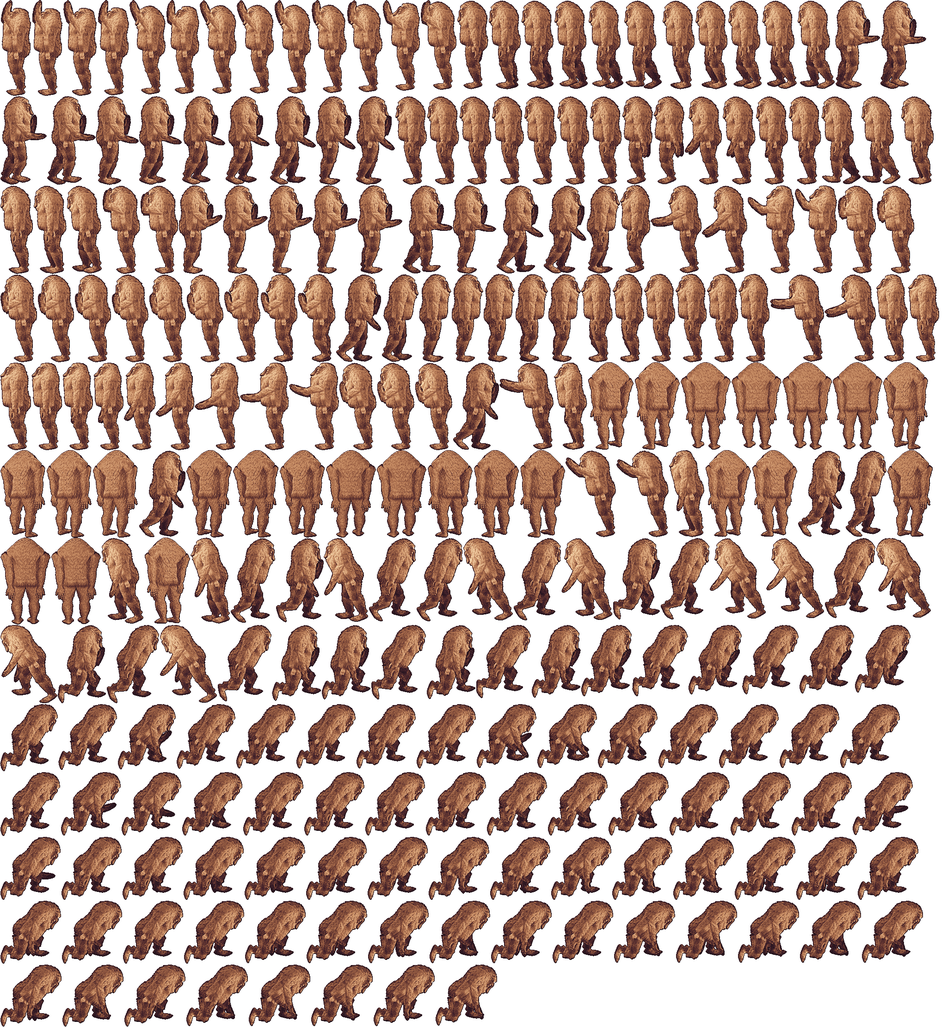
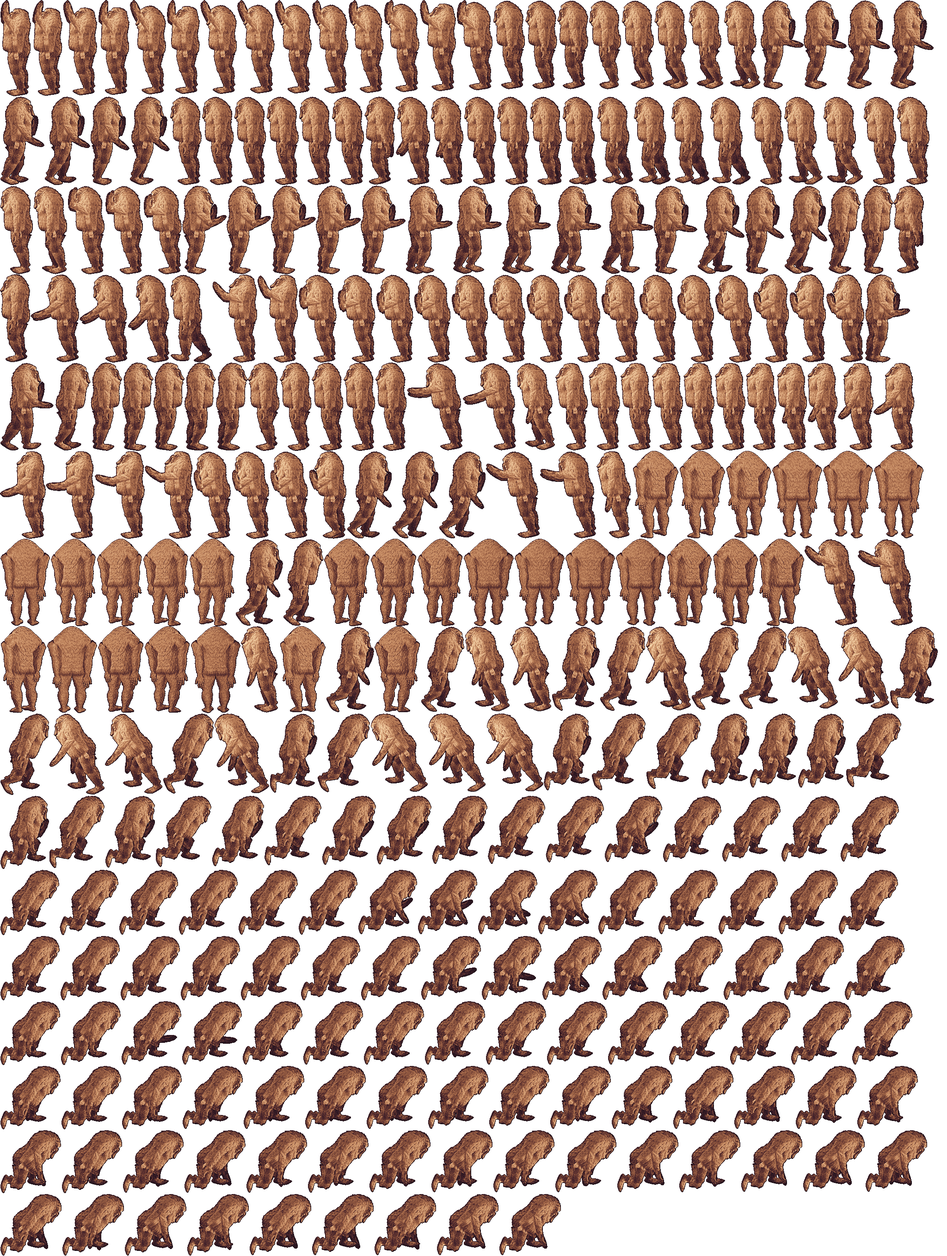
Title animation: two-thirds speed, separate far leg, longer one-knee kneel
Also keeps the 3D model reference views under play/concepts/model-ref.

Claude-Session: https://claude.ai/code/session_01JpLHzsYAvEKzmccr94t7N9

diff --git a/android/app/src/main/java/app/foxbox/ui/ProjectScreen.kt b/android/app/src/main/java/app/foxbox/ui/ProjectScreen.kt
@@ -53,6 +53,8 @@ class ProjectScreen(c: Context, private val onOpen: (Project) -> Unit, private v
     private val tPlace = story.getDouble("place").toFloat()
     private val scoops = story.getJSONArray("scoops").let { a -> FloatArray(a.length()) { a.getDouble(it).toFloat() } }
     private val duration = story.getDouble("duration").toFloat()
+    /** How much slower than the original timing the story plays (the dirt flies at the same pace). */
+    private val slow = story.optDouble("slow", 1.0).toFloat()
     private val pixel = Paint().apply { isFilterBitmap = false; isAntiAlias = false }
     private val dot = Paint()
     private val src = android.graphics.Rect(); private val dst = android.graphics.RectF()
@@ -99,7 +101,7 @@ class ProjectScreen(c: Context, private val onOpen: (Project) -> Unit, private v
         c.drawBitmap(sheet, src, dst, pixel)
         // earth scratched out of the hole flies back behind him
         for ((di, d0) in digs.withIndex()) {
-            val age = t - d0
+            val age = (t - d0) / slow
             if (age < 0f || age > 0.55f) continue
             for (j in 0 until 5) {
                 val r1 = hash(di * 91 + j); val r2 = hash(di * 37 + j * 5)
@@ -110,7 +112,7 @@ class ProjectScreen(c: Context, private val onOpen: (Project) -> Unit, private v
         }
         // earth he pulls over it, flying in little arcs
         for ((si, s0) in scoops.withIndex()) {
-            val age = t - (s0 - 0.35f)
+            val age = (t - s0) / slow + 0.35f
             if (age < 0f || age > 0.6f) continue
             for (j in 0 until 6) {
                 val r1 = hash(si * 31 + j); val r2 = hash(si * 57 + j * 7)

diff --git a/android/play/concepts/pixel/story3.py b/android/play/concepts/pixel/story3.py
@@ -15,7 +15,8 @@ import numpy as np
 import rig3, rig4, pxfast
 
 OUT = sys.argv[1]
-FPS = 15
+FPS = 12
+SLOW = 1.5   # the whole story at two-thirds speed: unhurried
 FEET = 228
 # ---------------- background (the clearing; no moon) and foreground grass
 src = open('yeti_dig.py').read()
@@ -31,8 +32,9 @@ REST = dict(torso=0, head=0, nsh=-8, nel=0, fsh=-4, fel=0, nth=0, nsn=0, fth=0, 
 keys = {c: [] for c in CH}
 views = []        # (time, view, face)
 def K(t, **kw):
+    t = t * SLOW
     for c, v in kw.items(): keys[c].append((t, v))
-def V(t, view, face): views.append((t, view, face))
+def V(t, view, face): views.append((t * SLOW, view, face))
 HOLD = dict(nsh=-70, nel=-118, fsh=-64, fel=-110)
 STAND_LEGS = dict(nth=0, nsn=0, fth=0, fsn=0)
 
@@ -108,15 +110,17 @@ K(13.8, nsh=-30, nel=-26, fsh=-24, fel=-20); K(13.95, nsh=-22, nel=-4, fsh=-18, 
 K(14.15, nsh=-30, nel=-26); K(14.3, nsh=-22, nel=-4)
 # a moment, looking at it
 K(14.9, head=18, torso=40, nsh=-16, nel=0, fsh=-10, fel=0, **KN)
+# stays down on the one knee a while longer, looking at the little mound
+K(15.4, head=22, torso=36); K(15.9, head=18, torso=38, **KN)
 # get up: lean over the front foot, push, the back knee comes up, stand
-K(15.3, torso=34, head=10, nsh=-12, fsh=-8)
-K(15.75, fth=-40, fsn=44, nth=4, nsn=46, torso=22, head=4)
-K(16.2, **STAND_LEGS, torso=2, head=0, nsh=-8, fsh=-4)
-turn(16.3, 'R', 'L')
+K(16.3, torso=34, head=10, nsh=-12, fsh=-8)
+K(16.75, fth=-40, fsn=44, nth=4, nsn=46, torso=22, head=4)
+K(17.2, **STAND_LEGS, torso=2, head=0, nsh=-8, fsh=-4)
+turn(17.3, 'R', 'L')
 # idle while a new firefly drifts down; he looks up at it
-K(17.6, look=1, breath=1)
-K(18.6, hipx=390)
-DUR = 20.0
+K(18.6, look=1, breath=1)
+K(19.6, hipx=390)
+DUR = 21.0 * SLOW
 K(DUR, **REST)
 
 def ease(u): return u * u * (3 - 2 * u)
@@ -136,16 +140,17 @@ def view_at(t):
     return v[1], v[2]
 
 # ---------------- the firefly: free (with jitter), dodging, caught, carried, laid in the hole
-FK = [(0.0, 352, 78), (1.0, 348, 84), (1.36, 344, 70), (1.62, 300, 150), (2.4, 296, 142), (3.0, 292, 150), (3.42, 300, 150), (3.62, 340, 36), (4.2, 352, 28), (5.15, 348, 34)]
+FK0 = [(0.0, 352, 78), (1.0, 348, 84), (1.36, 344, 70), (1.62, 300, 150), (2.4, 296, 142), (3.0, 292, 150), (3.42, 300, 150), (3.62, 340, 36), (4.2, 352, 28), (5.15, 348, 34)]
+FK = [(t * SLOW, x, y) for t, x, y in FK0]
 def free_fly(t):
     for (t0, x0, y0), (t1, x1, y1) in zip(FK, FK[1:]):
         if t0 <= t <= t1:
             u = ease((t - t0) / (t1 - t0)); x, y = x0 + (x1 - x0) * u, y0 + (y1 - y0) * u
-            return x + 3.0 * math.sin(t * 5.3) + 1.5 * math.sin(t * 11.0), y + 2.2 * math.sin(t * 6.7 + 1)
-    return FK[-1][1] + 3 * math.sin(t * 5.3), FK[-1][2] + 2 * math.sin(t * 6.7)
-T_CLAP, T_PLACE, T_COVER0, T_COVERED = 5.3, 11.35, 11.8, 13.6
-SCOOPS = [11.8 + i * 0.6 + 0.45 for i in range(3)]
-DIGS = [10.3 + i * 0.34 + 0.17 for i in range(2)]
+            return x + 3.0 * math.sin(t * 4.4) + 1.5 * math.sin(t * 9.0), y + 2.2 * math.sin(t * 5.6 + 1)
+    return FK[-1][1] + 3 * math.sin(t * 4.4), FK[-1][2] + 2 * math.sin(t * 5.6)
+T_CLAP, T_PLACE, T_COVER0, T_COVERED = (x * SLOW for x in (5.3, 11.35, 11.8, 13.6))
+SCOOPS = [(11.8 + i * 0.6 + 0.45) * SLOW for i in range(3)]
+DIGS = [(10.3 + i * 0.34 + 0.17) * SLOW for i in range(2)]
 
 # ---------------- simulate and render
 side = rig4.Side(); b = rig4.back(); b34 = rig4.back34()
@@ -159,7 +164,7 @@ for n in range(N):
     v = {c: chan(c, t) for c in CH}
     view, face = view_at(t)
     # breathing while idle
-    v['torso'] += v['breath'] * 1.3 * math.sin(2 * math.pi * t / 3.2)
+    v['torso'] += v['breath'] * 1.3 * math.sin(2 * math.pi * t / 4.5)
     fx, fy = free_fly(t)
     key_pose = None
     if view == 'S':
@@ -210,14 +215,14 @@ HOLE = ((hp[0][0] + hp[1][0]) / 2, FEET - 1)
 fly = []
 for n in range(N):
     t = n / FPS
-    if t < T_CLAP - 0.12:
+    if t < T_CLAP - 0.18:
         x, y = free_fly(t); a = 1.0; state = 0
     elif t < T_PLACE:
         h = hands[n]
         if h: x, y = (h[0][0] + h[1][0]) / 2, (h[0][1] + h[1][1]) / 2; state = 1
         else: x, y = fly[-1][0], fly[-1][1]; state = 2     # hidden in his hands while he turns
         if t < T_CLAP:
-            u = (t - (T_CLAP - 0.12)) / 0.12; fx_, fy_ = free_fly(t); x, y = fx_ + (x - fx_) * u, fy_ + (y - fy_) * u
+            u = (t - (T_CLAP - 0.18)) / 0.18; fx_, fy_ = free_fly(t); x, y = fx_ + (x - fx_) * u, fy_ + (y - fy_) * u
         a = 1.0
     else:
         x, y = HOLE; state = 3
@@ -225,7 +230,7 @@ for n in range(N):
         if t > T_COVERED: a = 0.2 * max(0.0, 1 - (t - T_COVERED) / 3.0)
     fly.append([round(x, 1), round(y, 1), round(a, 2), state])
 # a new one drifts down from the sky toward where the next chase starts
-T_NEW = 17.6
+T_NEW = 18.6 * SLOW
 for n in range(int(T_NEW * FPS), N):
     u = ease((n / FPS - T_NEW) / (DUR - T_NEW)); x0, y0 = 300, 6; x1, y1 = free_fly(0.0)
     fly[n] = [round(x0 + (x1 - x0) * u, 1), round(y0 + (y1 - y0) * u, 1), round(min(1, u * 3), 2), 4]
@@ -243,7 +248,7 @@ for i, (s, sx0, sy0) in enumerate(sprites):
     px_, py_ = place[i]; sheet.paste(s, (px_, py_)); meta.append([px_, py_, s.width, s.height, sx0, sy0])
 sheet.save(os.path.join(OUT, 'yeti_frames.png'), optimize=True)
 json.dump({'fps': FPS, 'duration': DUR, 'frames': meta, 'steps': steps, 'fly': fly, 'hole': [round(HOLE[0], 1), HOLE[1]],
-           'place': T_PLACE, 'scoops': SCOOPS, 'digs': DIGS, 'covered': T_COVERED, 'facing_at_dig': 'R'},
+           'place': T_PLACE, 'scoops': SCOOPS, 'digs': DIGS, 'covered': T_COVERED, 'facing_at_dig': 'R', 'slow': SLOW},
           open(os.path.join(OUT, 'title_story.json'), 'w'))
 # foreground: a few blades of grass in front of his feet
 fg = Image.new('RGBA', (W, H), (0, 0, 0, 0)); fp = fg.load()

diff --git a/android/play/concepts/pixel/rig4.py b/android/play/concepts/pixel/rig4.py
@@ -143,12 +143,13 @@ class Side:
         def arm(up, fo, sh, el):
             A = T @ skin.rot(sh, *SH_); F = A @ skin.rot(el, *EL_)
             return rigid(up, A), rigid(fo, F), A, F
-        def leg(th_l, sn_l, th, sn):
-            Th = skin.rot(th, *H_); Sn = Th @ skin.rot(sn, *K_)
+        def leg(th_l, sn_l, th, sn, off=(0.0, 0.0)):
+            O = np.eye(3); O[0, 2], O[1, 2] = off[0] * S, off[1] * S
+            Th = O @ skin.rot(th, *H_); Sn = Th @ skin.rot(sn, *K_)
             return rigid(th_l, Th), rigid(sn_l, Sn)
         fu, ff, fA, fF = arm(self.fupper, self.ffore, fsh, fel)
         over(fu); over(ff)
-        a1, a2 = leg(self.fthigh, self.fshin, fth, fsn); over(a2); over(a1)
+        a1, a2 = leg(self.fthigh, self.fshin, fth, fsn, (38, -6)); over(a2); over(a1)
         b1, b2 = leg(self.thigh, self.shin, nth, nsn); over(b2); over(b1)
         over(skin.warp(self.body, [T, T @ skin.rot(head, *N_)], self.w_body))
         nu, nf, nA, nF = arm(self.upper, self.fore, nsh, nel)
